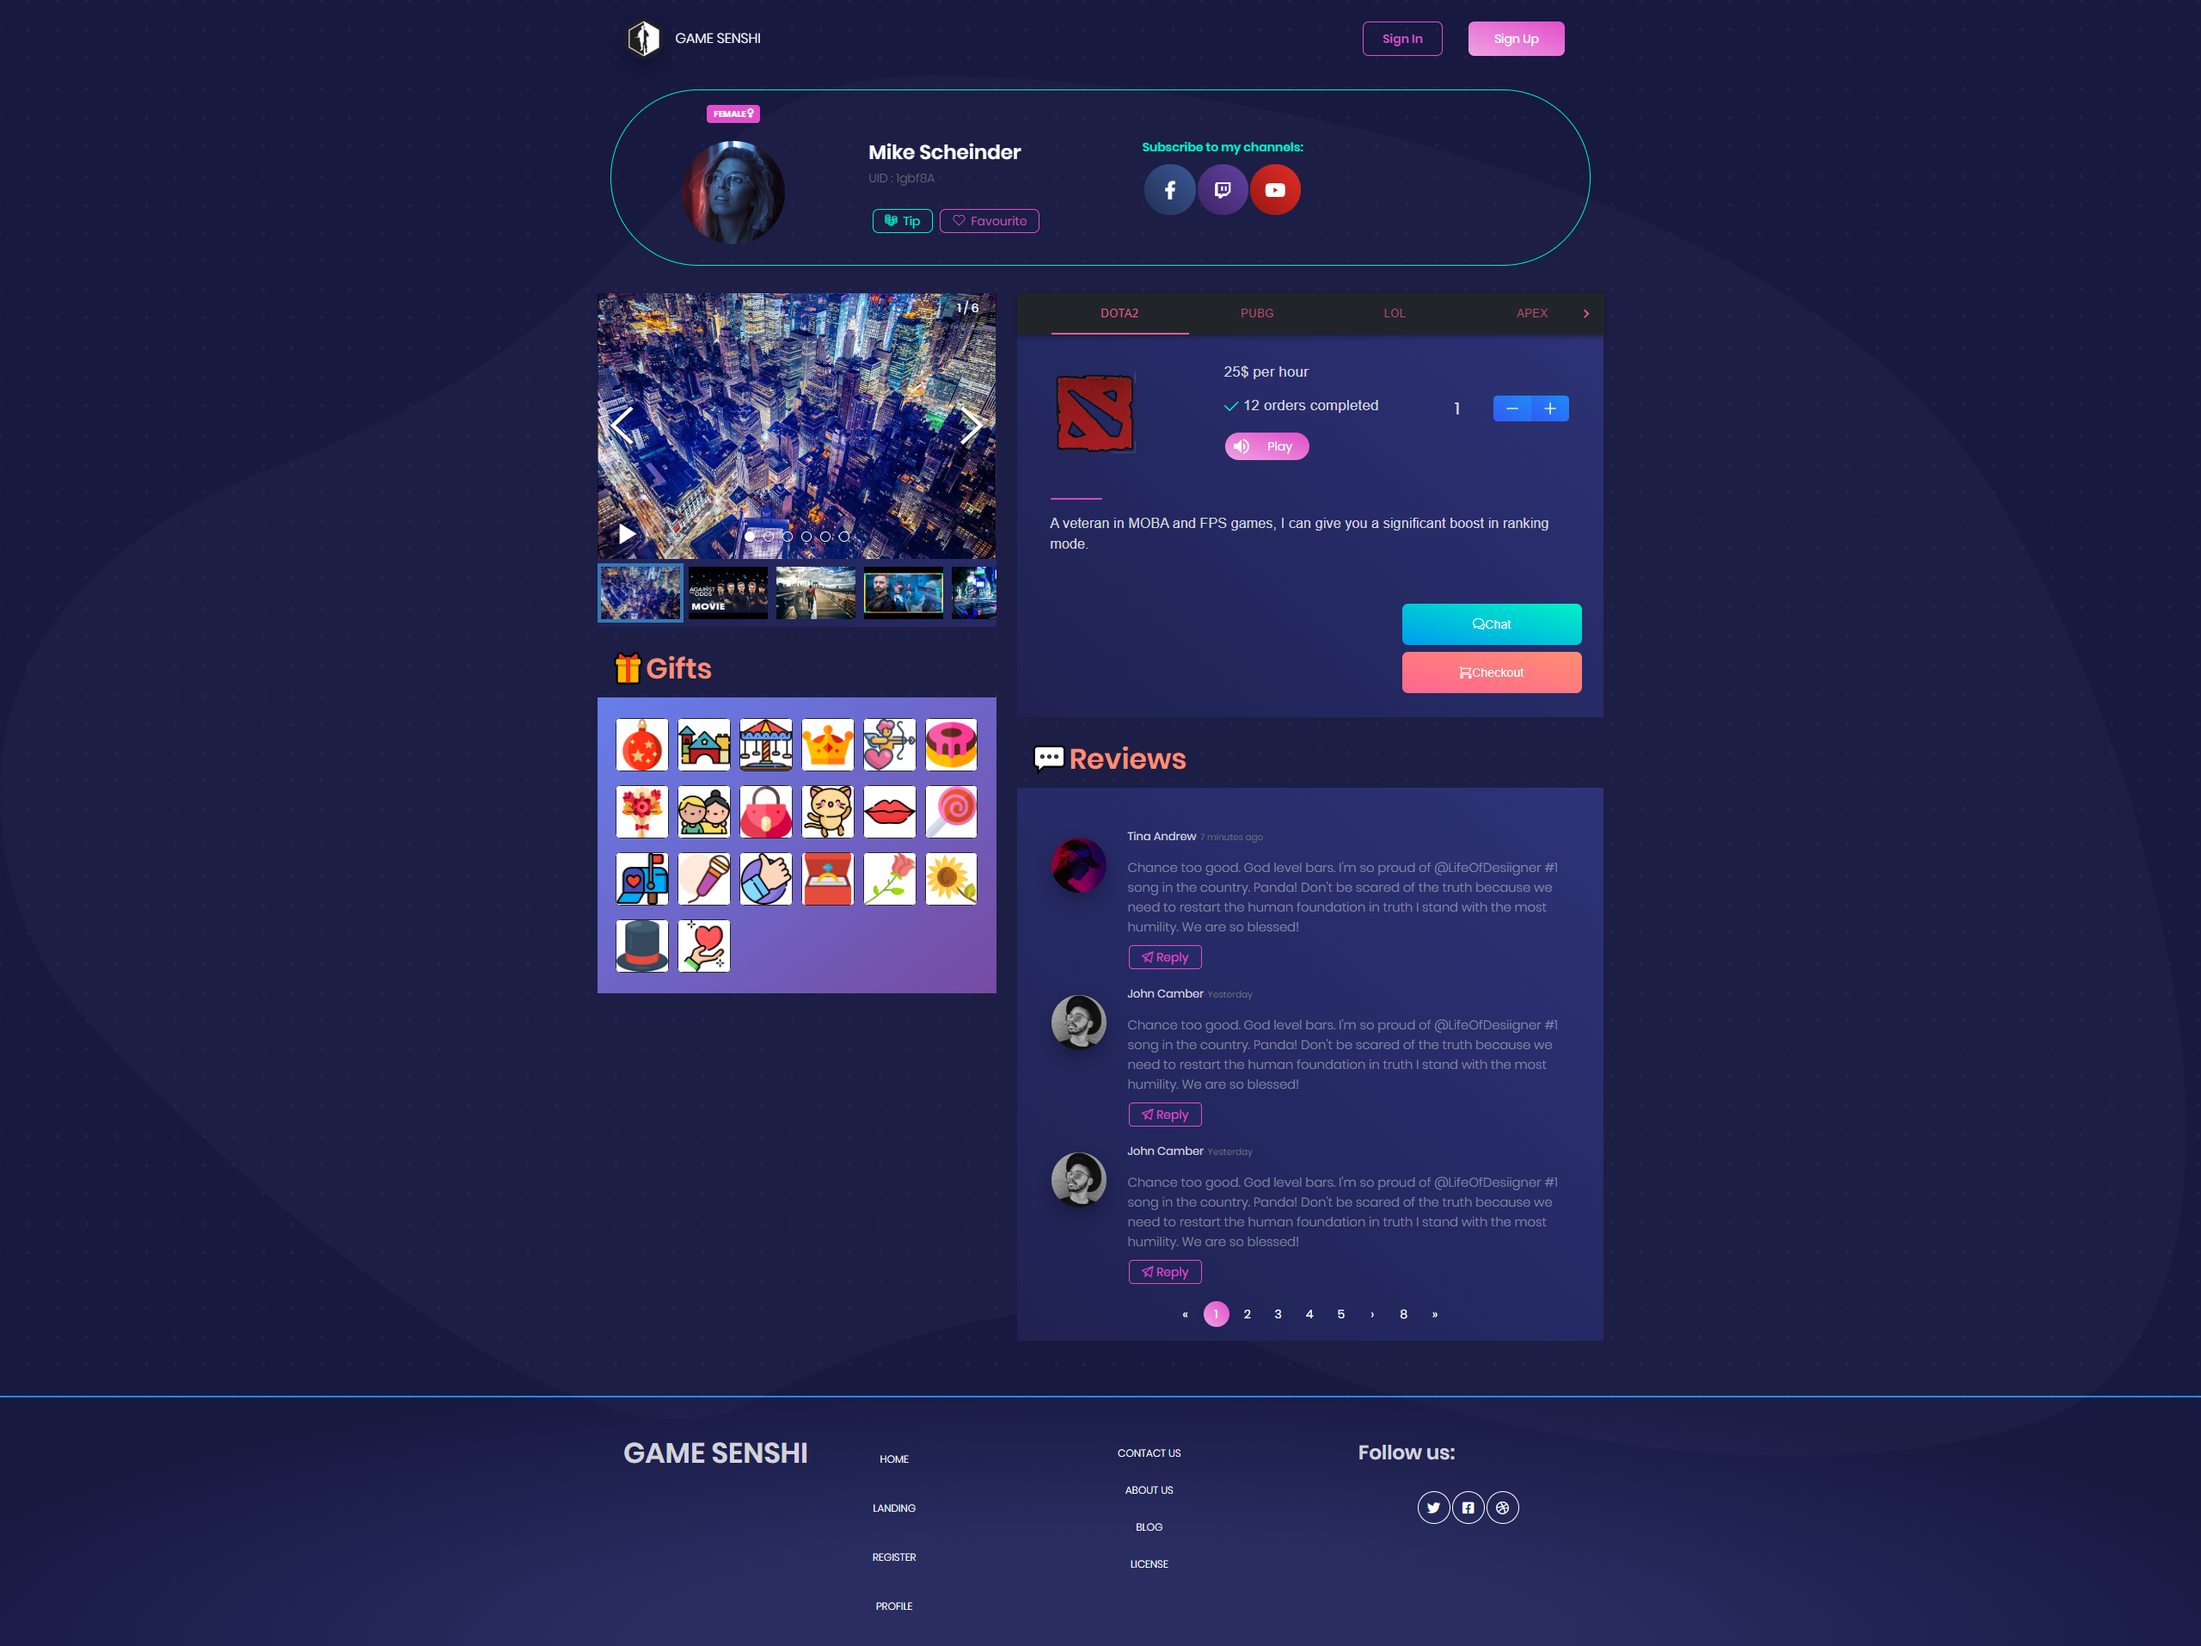
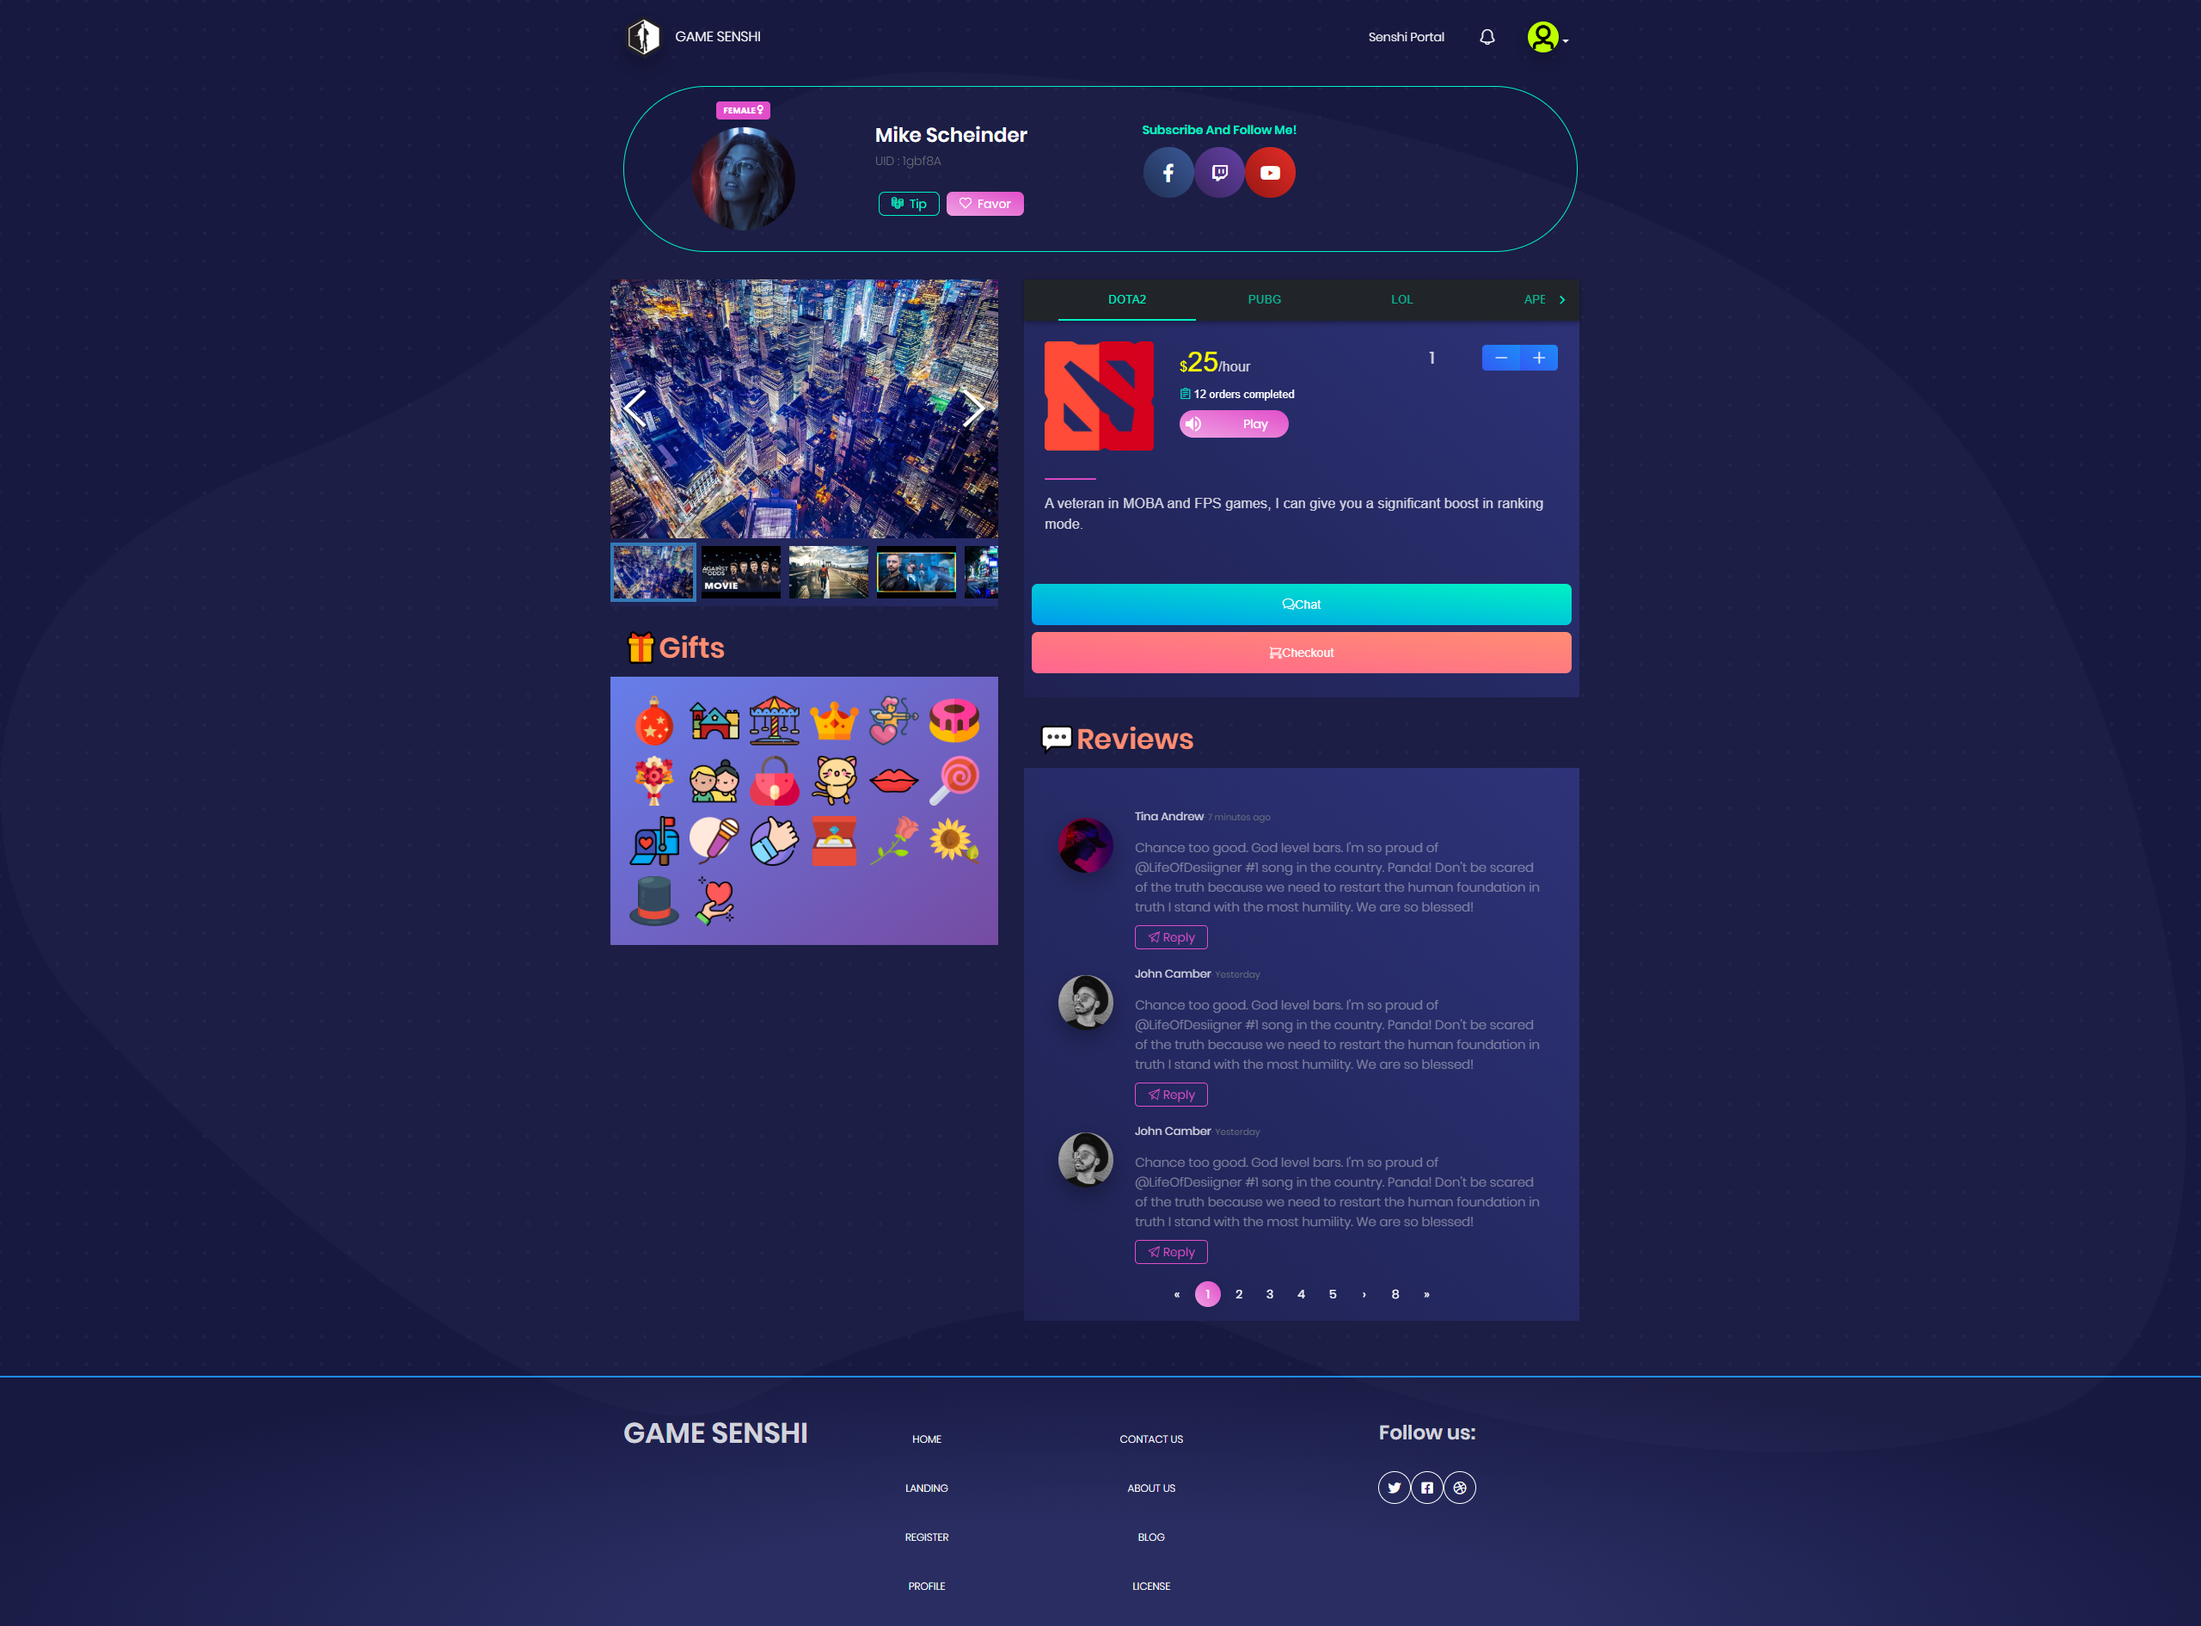
modification of profile page phase 1

diff --git a/src/5_comp_4/TabProduct/TabProduct.jsx b/src/5_comp_4/TabProduct/TabProduct.jsx
@@ -1,6 +1,5 @@
 import React from 'react'
 import { stopUndefined } from '1_utils'
-import { Container, Row, Col } from 'reactstrap'
 import { Exports } from '5_comp_2'
 
 const {
@@ -8,6 +7,8 @@ const {
 	ButtonSoundStoreSoundPropedCardUser,
 	QuantityProfile,
 	ButtonsCommonChatAndCheckout,
+	Row,
+	Col,
 } = stopUndefined(Exports)
 
 const TAB_PRODUCT_PRICE = 'price'
@@ -23,20 +24,37 @@ const TabProduct = props => {
 		[TAB_PRODUCT_DESCRIPTION]: description,
 	} = props
 	return (
-		<Container style={{ zIndex: 99 }}>
-			<Row className='py-2 d-flex align-items-center'>
-				<Col>
+		<>
+			<Row>
+				<Col xs='3'>
 					<ImagesTooltipOptioned icons={icon} />
 				</Col>
 				<Col>
-					<div style={{ width: '200px' }}>
-						<h4>{price}$ per hour</h4>
-						<h4>
-							<i className='tim-icons icon-check-2 text-success'></i> {orders}{' '}
-							orders completed
-						</h4>
-						<ButtonSoundStoreSoundPropedCardUser gender={true} />
-					</div>
+					<Row xs='1'>
+						<Col>
+							<p>
+								<span style={{ color: 'yellow' }}>$</span>
+								<span
+									style={{
+										color: 'yellow',
+										fontSize: '2rem',
+									}}
+								>
+									{price}
+								</span>
+								/hour
+							</p>
+						</Col>
+						<Col>
+							<p className='text-white lead'>
+								<i className='tim-icons icon-notes text-success pb-1'></i>{' '}
+								{orders} orders completed
+							</p>
+						</Col>
+						<Col xs='8'>
+							<ButtonSoundStoreSoundPropedCardUser gender={true} />
+						</Col>
+					</Row>
 				</Col>
 				<Col>
 					<QuantityProfile />
@@ -57,7 +75,7 @@ const TabProduct = props => {
 					<ButtonsCommonChatAndCheckout />
 				</Col>
 			</Row>
-		</Container>
+		</>
 	)
 }
 
